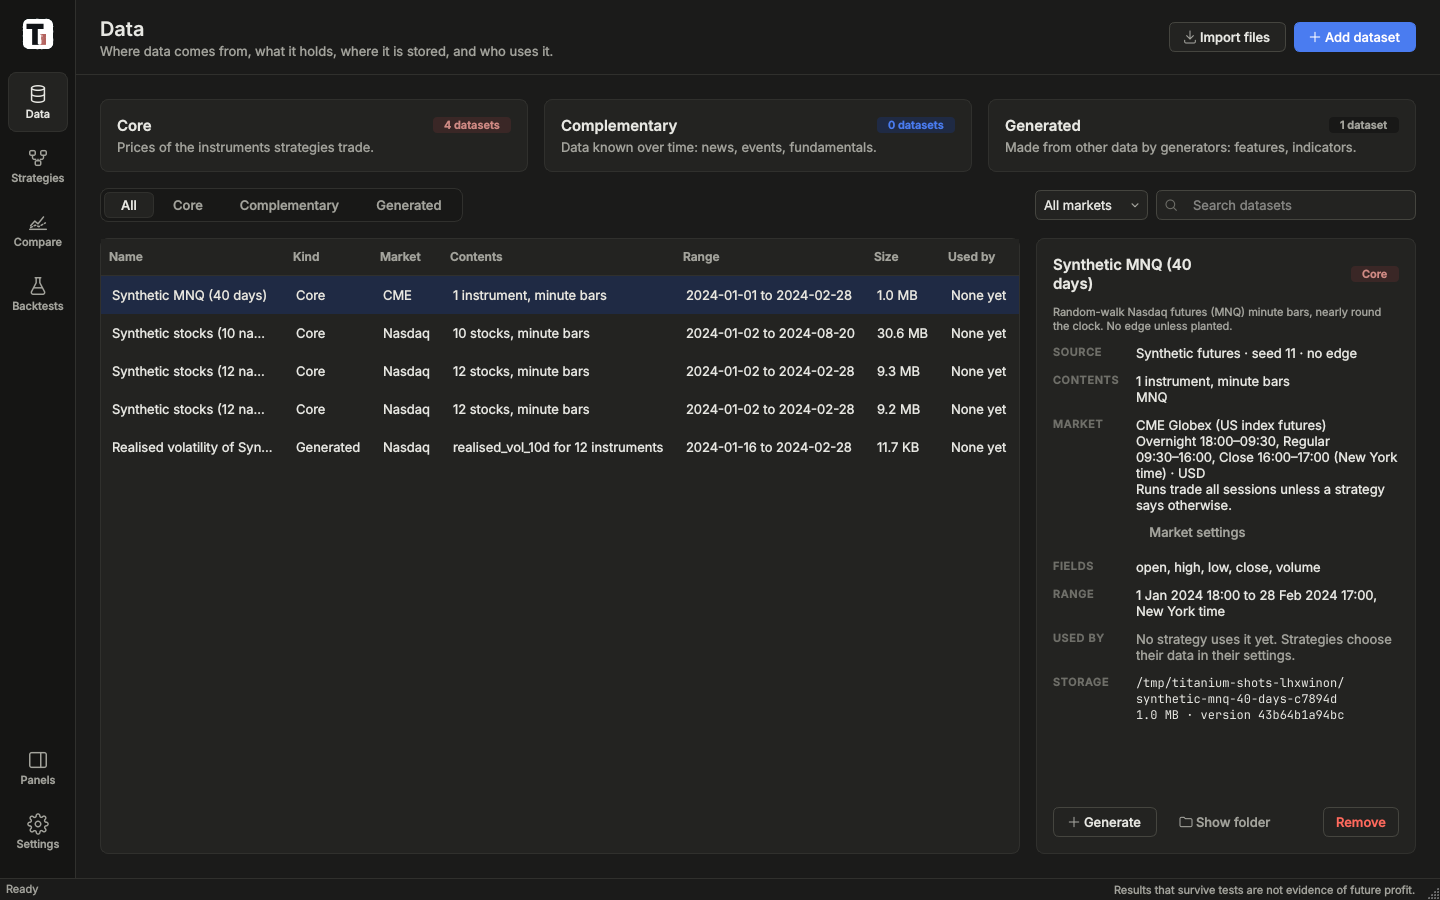
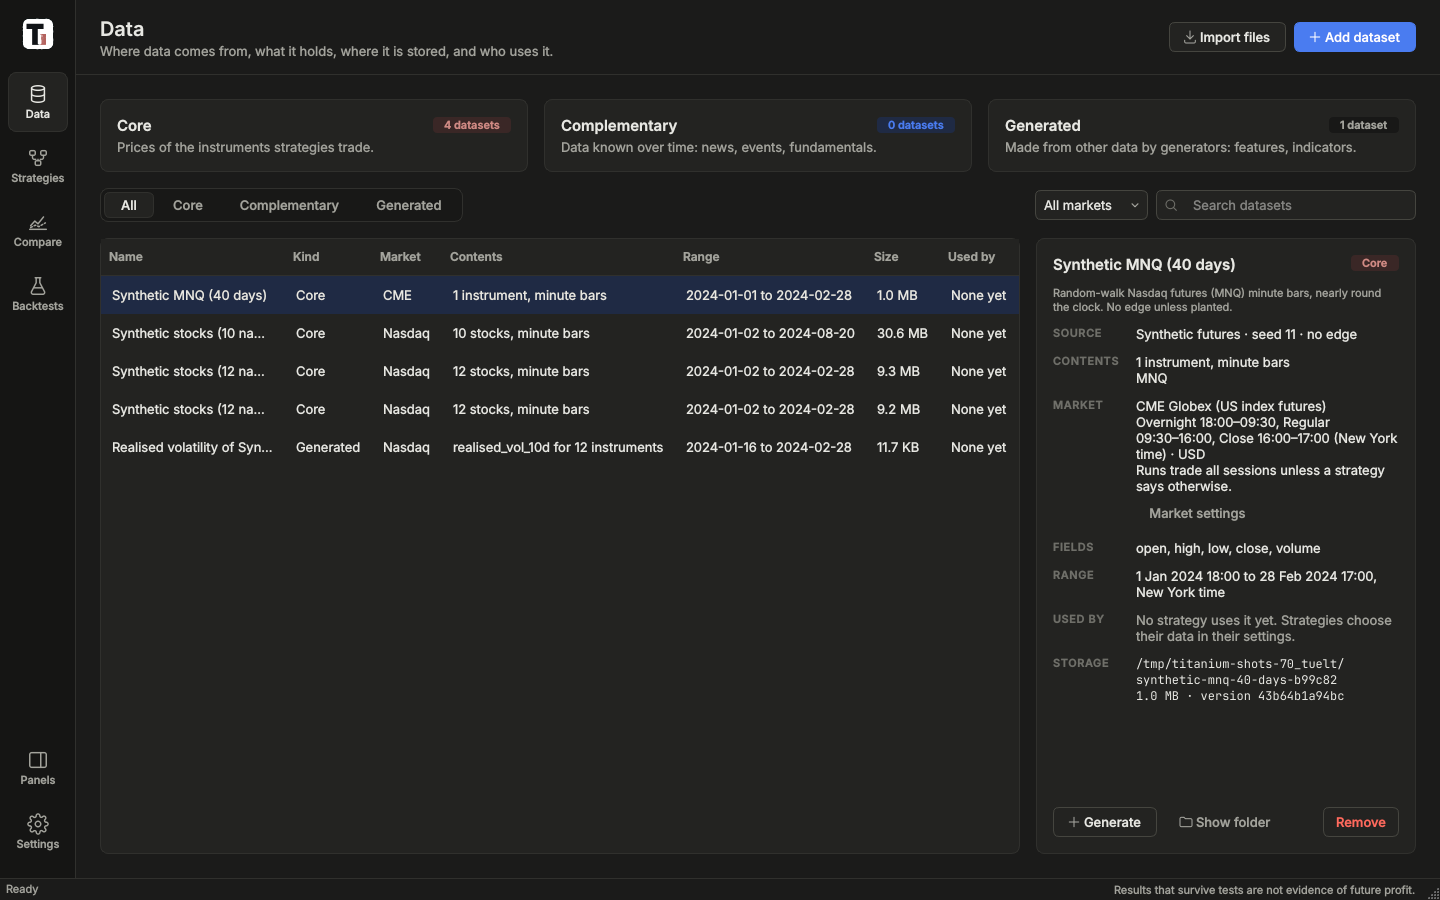
Stop wrapped text from being cut off in short panels
Qt gives a word-wrapped QLabel a minimum height of about one line, so a panel
that runs short of space squeezes it and slices the text mid-line. label(wrap=True)
now returns a WrapLabel that holds its wrapped height for its current width, and
the kit gains scrolling() for panels whose content can outgrow a short window.
The Data details pane uses it, so it scrolls instead of clipping the contents,
market sessions and the Market settings button.

Claude-Session: https://claude.ai/code/session_019kgugfZfeBmaYcKMAHX7LE

Changed region(s): [[0.7188, 0.28, 0.9688, 0.8089]]

diff --git a/titanium/desktop/design/components.py b/titanium/desktop/design/components.py
@@ -11,7 +11,7 @@ from PySide6.QtCore import QEasingCurve, QPointF, QRectF, QSize, Qt, QVariantAni
 from PySide6.QtGui import QColor, QPainter, QPen, QPixmap
 from PySide6.QtWidgets import (
     QAbstractButton, QAbstractItemView, QButtonGroup, QCheckBox, QComboBox, QDialog, QDoubleSpinBox, QFileDialog, QFormLayout, QFrame,
-    QGraphicsDropShadowEffect, QGridLayout, QHBoxLayout, QHeaderView, QLabel, QLayout, QLineEdit, QPushButton, QSizePolicy, QSpinBox,
+    QGraphicsDropShadowEffect, QGridLayout, QHBoxLayout, QHeaderView, QLabel, QLayout, QLineEdit, QPushButton, QScrollArea, QSizePolicy, QSpinBox,
     QTableWidget, QTableWidgetItem, QToolButton, QVBoxLayout, QWidget,
 )
 
@@ -21,10 +21,51 @@ from . import tokens as T
 S = T.SPACE
 
 
+class WrapLabel(QLabel):
+    """A word-wrapped label that keeps the height its text needs at its current width.
+
+    Qt gives a wrapped QLabel a minimum height of about one line, so a layout that runs short
+    of space squeezes it and cuts the text off mid-line instead of growing or scrolling. This
+    label raises its minimum height to the wrapped height whenever its width or text changes,
+    so a short container has to scroll (or the window stays tall enough) rather than clip.
+    """
+
+    def __init__(self, text: str = "", parent=None):
+        super().__init__(text, parent)
+        self.setWordWrap(True)
+        self._fit_width = -1
+
+    def _fit(self) -> None:
+        w = self.width()
+        if w <= 0:
+            return
+        self._fit_width = w
+        held = self.minimumHeight()
+        if held:  # QLabel counts its minimum height into heightForWidth, so measure without it
+            self.setMinimumHeight(0)
+        need = self.heightForWidth(w)
+        self.setMinimumHeight(max(need, 0))
+
+    def setText(self, text: str) -> None:  # noqa: N802 (Qt name)
+        super().setText(text)
+        self._fit()
+
+    def resizeEvent(self, event) -> None:  # noqa: N802 (Qt name)
+        super().resizeEvent(event)
+        if event.size().width() != self._fit_width:
+            self._fit()
+
+    def changeEvent(self, event) -> None:  # noqa: N802 (Qt name): a new skin may change the font
+        super().changeEvent(event)
+        if event.type() in (event.Type.FontChange, event.Type.StyleChange):
+            self._fit()
+
+
 def label(text: str, role: str = "", wrap: bool = False) -> QLabel:
     """Text in one of the type roles: display, heading, title, label, muted, caption, overline, stat,
-    mono (paths, ids), error, key (the left column of a details list)."""
-    lbl = QLabel(text)
+    mono (paths, ids), error, key (the left column of a details list). Wrapped text never clips:
+    see ``WrapLabel``."""
+    lbl = WrapLabel(text) if wrap else QLabel(text)
     if role:
         lbl.setProperty("role", role)
     lbl.setWordWrap(wrap)
@@ -209,6 +250,22 @@ def flow(*items, spacing: int = S["sm"], fill: bool = False) -> FlowLayout:
             holder.setLayout(it)
             lay.addWidget(holder)
     return lay
+
+
+def scrolling(widget: QWidget) -> QScrollArea:
+    """Wrap ``widget`` so it scrolls up and down when its area is shorter than its content.
+
+    Any panel whose content can outgrow a short window (a details list, a form) goes in one,
+    so nothing is squeezed or cut off."""
+    area = QScrollArea()
+    area.setWidgetResizable(True)
+    area.setFrameShape(QFrame.NoFrame)
+    area.setHorizontalScrollBarPolicy(Qt.ScrollBarAlwaysOff)
+    area.setWidget(widget)
+    # let the surface underneath (a card, the page) show through instead of the window colour
+    area.viewport().setAutoFillBackground(False)
+    widget.setAutoFillBackground(False)
+    return area
 
 
 class Card(QFrame):

diff --git a/titanium/desktop/pages/data.py b/titanium/desktop/pages/data.py
@@ -17,7 +17,7 @@ from .. import tasks
 from ..market_text import hours_text, market_text, tz_name
 from ..design import tokens as T
 from ..design.components import (
-    Card, DataTable, Details, Dialog, EmptyState, ParamForm, SearchField, Segmented, badge, button, hbox, label,
+    Card, DataTable, Details, Dialog, EmptyState, ParamForm, SearchField, Segmented, badge, button, hbox, label, scrolling,
 )
 from ._base import PageView
 from ..views import PageStack
@@ -327,11 +327,14 @@ class DatasetCard(Card):
         self.info: DatasetInfo | None = None
         self.name = label("", "title", wrap=True)
         self.kind = badge("", "neutral")
-        self.body.addLayout(hbox(self.name, None, self.kind))
+        head = hbox(self.name, self.kind)
+        head.setStretch(0, 1)  # the name takes the width; a wrapped label next to a stretch gets squeezed narrow
+        head.setAlignment(self.kind, Qt.AlignTop)
+        self.body.addLayout(head)
         self.notes = label("", "caption", wrap=True)
         self.body.addWidget(self.notes)
         self.fields = Details()
-        self.body.addWidget(self.fields, 1)
+        self.body.addWidget(scrolling(self.fields), 1)  # a short window scrolls the details, never clips them
         self.error = label("", "error", wrap=True)
         self.error.hide()
         self.body.addWidget(self.error)

diff --git a/tests/test_desktop.py b/tests/test_desktop.py
@@ -373,3 +373,26 @@ def test_panels_menu_shows_and_hides_docks_and_remembers(win, ctx, qapp):
     win.set_panel_shown("module_library", True)
     assert win.current == "strategies" and win.docks["module_library"].isVisible()
     assert "module_library" not in win._saved_hidden()
+
+
+def test_wrapped_text_is_never_squeezed(qapp):
+    """A wrapped label keeps the height its text needs, so a short container scrolls instead of
+    cutting text off mid-line (the Data details pane used to slice its ticker list)."""
+    from PySide6.QtWidgets import QVBoxLayout, QWidget
+
+    from titanium.desktop.design.components import label, scrolling
+
+    text = ", ".join(f"SYN{i:03d}" for i in range(40))
+    lbl = label(text, wrap=True)
+    box = QWidget()
+    QVBoxLayout(box).addWidget(lbl)
+    area = scrolling(box)
+    area.resize(160, 60)  # far shorter than the text
+    area.show()
+    qapp.processEvents()
+    assert lbl.height() >= lbl.heightForWidth(lbl.width()) > 60
+    assert area.verticalScrollBar().maximum() > 0  # it scrolls rather than clips
+    lbl.setText("short")
+    qapp.processEvents()
+    assert lbl.minimumHeight() < 30 and area.verticalScrollBar().maximum() == 0  # and lets go for less text
+    area.close()

diff --git a/tests/test_settings.py b/tests/test_settings.py
@@ -34,8 +34,10 @@ def page(qapp, ctx):
 
 
 def test_the_page_keeps_its_cards(page):
+    from PySide6.QtWidgets import QLabel
+
     from titanium.desktop.design.components import Card
-    titles = [c.findChildren(type(page.skin_about))[0].text() for c in page.findChildren(Card)]
+    titles = [c.findChildren(QLabel)[0].text() for c in page.findChildren(Card)]
     for t in ("Appearance", "Skin", "Defaults for every run", "Markets", "Module library", "Plugins", "Layout"):
         assert t in titles
 
